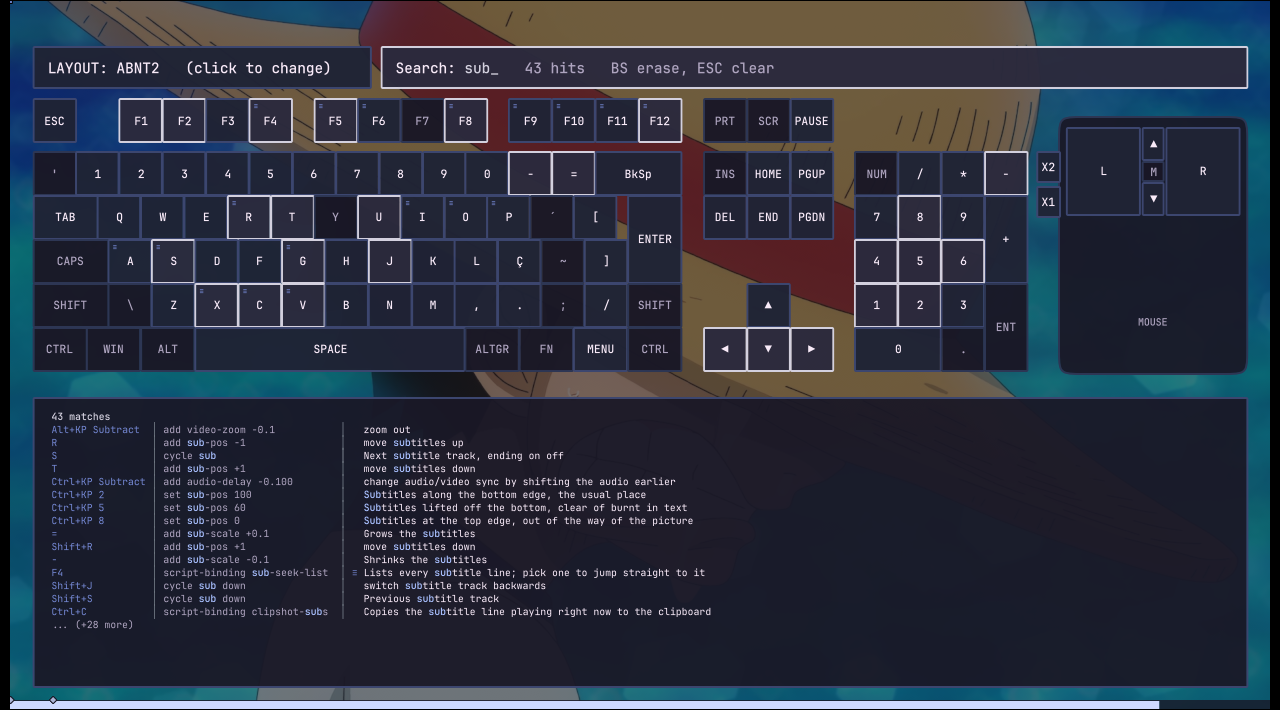
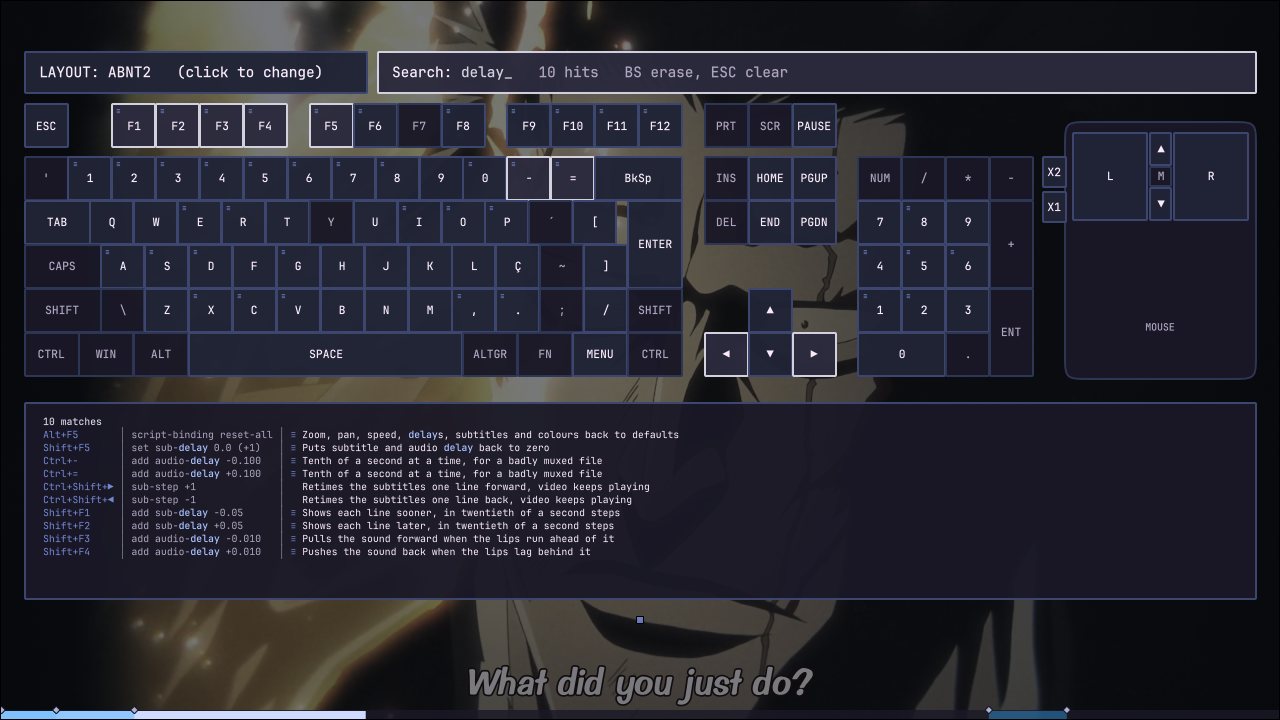
docs: cover today's scripts and retake the screenshots
Nine new images, six replaced. The menu shots are taken at 1920 and scaled
down, since the Anime4K cascade runs six levels deep and clipped at 1280,
and all are recompressed losslessly: most replacements are smaller than
what they replace.

New sections for chapters-menu and sub-select-menu, and one for AniList,
which the vendored table still called stock and pinned far behind upstream.
The table now says what actually changed in sub-export, sub-select,
chapters and skip-to-silence. Install gains 'just setup'.

Corrects two claims: the keyboard map no longer reflects mpv's builtins,
which mpv.conf turns off, and 'sbdly' does not find sub-delay.

diff --git a/README.md b/README.md
@@ -62,25 +62,27 @@ portable_config/
     shaders/ ## add your own
 ```
 
+The AniList scripts import `requests` and `guessit`. `just setup` installs both into `scripts/anilistUpdater/vendor/` with [uv][uv], so they do not depend on whatever `Lib` folder happens to sit next to `mpv.exe`; `just setup-check` reports whether mpv can import them. The folder is gitignored.
+
 ## Scripts I wrote
 
-Ten, the interface ones all on the Moonlight palette.
+Twelve, the interface ones all on the Moonlight palette.
 
 ### [`keybind-visualizer.lua`][keybind_visualizer]
 
 An on-screen keyboard on `F6`. Hover a key to see what it does; `ESC` closes it.
 
-Bindings are read live from `input-bindings`, so it reflects your `input.conf` plus the builtins, with no list to maintain.
+Bindings are read live from `input-bindings`, with no list to maintain. `mpv.conf` sets `input-builtin-bindings=no`, so what the map draws is this config and its scripts and nothing of mpv's own: `input.conf` is the whole keymap.
 
-| Searching every binding for `sub`           | Hovering a single key                     |
-| ------------------------------------------- | ------------------------------------------- |
+| Searching every binding for `delay`         | Hovering a single key                     |
+| ------------------------------------------- | ----------------------------------------- |
 | ![Keyboard map, searching][shot_map_search] | ![Keyboard map, hovering][shot_map_hover] |
 
-Type to search. The query matches key names, combos, descriptions and commands. Each word matches as a substring, as a gapped run inside one word (`sbdly` finds `sub-delay`) or as word initials, so a scatter of letters never lights up half the keyboard. Matches are picked out inside each description. `BS` erases, `ESC` clears the query and then closes.
+Type to search. The query matches key names, combos, descriptions and commands. Each word matches as a substring, as a gapped run inside one word, or as the initials of consecutive words, so a scatter of letters never lights up half the keyboard. A run may not wander past the end of a word: `sub-delay` is two words to the tokenizer, so `sd` reaches it through the initials rule while `sbdly` matches nothing. Matches are picked out inside each description. `BS` erases, `ESC` clears the query and then closes.
 
 Results come as three columns: the combo, what it runs, and what that means. The command column drops the `no-osd` and `expand-properties` prefixes and the `osd_theme` message, and a binding running several commands shows the first with a `(+2)` for the rest.
 
-Descriptions come from the trailing `#` comment on each `input.conf` line, which mpv hands back through `input-bindings`. A uosc menu line describes itself after `?` instead, since its `#!` comment already holds the menu path. Only mpv's builtins, which ship without comments, come through blank.
+Descriptions come from the trailing `#` comment on each `input.conf` line, which mpv hands back through `input-bindings`. A uosc menu line describes itself after `?` instead, since its `#!` comment already holds the menu path; parents in that path carry descriptions of their own, so the one after the last `?` is the entry's.
 
 A `≡` badge marks anything that also lives in the uosc menu: in the corner of the key, and beside the binding's own line in the panel.
 
@@ -99,9 +101,9 @@ Type to filter: every word has to appear in the line, so `long line` keeps only 
 
 mpv exposes no "all subtitle lines" API, so the track is dumped to a temporary `.srt` with ffmpeg and parsed; ASS and embedded subs are flattened on the way.
 
-| Every line of the track, the one playing highlighted | Filtered down to the lines that match |
-| --- | --- |
-| ![Subtitle index][shot_sub_seek] | ![Subtitle index, searching][shot_sub_search] |
+| Every line of the track, the one playing highlighted | Filtered down to the lines that match         |
+| ---------------------------------------------------- | --------------------------------------------- |
+| ![Subtitle index][shot_sub_seek]                     | ![Subtitle index, searching][shot_sub_search] |
 
 ### [`uosc-menu.lua`][uosc_menu]
 
@@ -111,9 +113,17 @@ uosc builds its menu from the `#!` comments in `input.conf`, but those items get
 | --------------------------------- | --------------------------------------------- |
 | ![Menu root][shot_menu_root]      | ![Tools submenu][shot_menu_tools]             |
 
-| Fonts as a radio group               | Shaders ticked three levels in          |
-| ------------------------------------ | --------------------------------------- |
-| ![Font radio group][shot_menu_radio] | ![Shader checkboxes][shot_menu_cascade] |
+| Fonts as a radio group               | The Anime4K presets, six levels deep  |
+| ------------------------------------ | ------------------------------------- |
+| ![Font radio group][shot_menu_radio] | ![Anime4K cascade][shot_menu_cascade] |
+
+| Speeds as a radio group               | Subtitle placement, the live one marked    |
+| ------------------------------------- | ------------------------------------------ |
+| ![Playback speed][shot_menu_playback] | ![Subtitle placement][shot_menu_placement] |
+
+| Every loudness filter as a checkbox   | The colour controls                    |
+| ------------------------------------- | -------------------------------------- |
+| ![Audio loudness][shot_menu_loudness] | ![Picture controls][shot_menu_picture] |
 
 <details>
 
@@ -134,7 +144,31 @@ g cycle interpolation   #! Video @movie > Interpolation @animation ?Resamples fr
 
 Entries carrying a state draw it instead of their icon, re-read on open: `cycle <prop>`, `af toggle` and `change-list glsl-shaders toggle` become checkboxes, while entries setting the same property with `set <prop> <value>` become a radio group. Those keep the menu open when clicked and redraw in place, so a shader chain can be built in one visit.
 
+The state is read from the first command on the line, with the prefix saying how it reports itself stripped first. Almost every binding here opens with `no-osd`, so matching the raw string left the whole tree stateless. Comments are found at the first `#` outside quotes, since a subtitle colour is written `"#80FFFFFF"` and cutting at the first `#` truncates the command.
+
 Bound to `MBTN_RIGHT`, which anchors it at the pointer, and to `MENU` and the uosc menu button, which open it centred.
+
+### [`chapters-menu.lua`][chapters_menu]
+
+A uosc front end for [`chapters.lua`][chapters] on `c`, which ships eleven bindings and no way to see what any of them would do. Every chapter with its timestamp, the one playing marked; activating a row seeks and leaves the menu open, so you can walk the file and then act.
+
+| Every chapter, and what can be done to them | The YouTube rules, checked one by one |
+| ------------------------------------------- | ------------------------------------- |
+| ![Chapter menu][shot_chapters]              | ![YouTube check][shot_chapters_check] |
+
+Adding, renaming and deleting are done here rather than delegated. `chapters.lua` asks for a title through `mp.input`, which drops mpv's console over the video, and it acts on the chapter playing rather than the one you picked. Renaming uses a uosc palette prefilled with the current title instead, on `search_debounce = 'submit'` so nothing fires until Enter.
+
+Exporting, remuxing and the in-place mkv rewrite are `chapters.lua`'s own and are called by name. Its YouTube validation, which used to dump twenty seconds of tab-aligned OSD text, is drawn as pass and fail rows, listing any chapter too short to qualify.
+
+### [`sub-select-menu.lua`][sub_select_menu]
+
+[`sub-select.lua`][sub_select] picks a subtitle track from the rules in `sub-select.json` and says nothing about it: not which rule won, not whether it ran at all. `ALT+SHIFT+s` draws the rules in plain words, marks the one that matched, names the track it chose, and offers a switch to stop it choosing.
+
+| Which rule picked the track showing right now |
+| --------------------------------------------- |
+| ![Automatic subtitle selection][shot_subsel]  |
+
+The rules, the match and the on/off state reach the menu from `sub-select.lua` over `user-data`, which is the only place any of them is known. That is six added lines in a vendored script, and an upstream pull reverts them.
 
 ### [`sub-font.lua`][sub_font]
 
@@ -146,9 +180,11 @@ This mirrors `sub-font` into a `FontName` override, leaving other overrides alon
 
 One shape for every message a keybind puts on screen, so `sub-ass-override force` never reaches the screen as bare `force`. Bindings call `script-message-to osd_theme say "<label>" "<state>" "<detail>"`. The script paints the label, colours the state green or red for a plain on or off, and sets the detail below it in a smaller, quieter line saying what the setting does.
 
-| The message a keybind leaves on screen |
-| -------------------------------------- |
-| ![Themed OSD message][shot_osd_theme]  |
+| The message a keybind leaves on screen | Work that takes a while, with the same spinner uosc uses |
+| -------------------------------------- | -------------------------------------------------------- |
+| ![Themed OSD message][shot_osd_theme]  | ![Busy message][shot_osd_busy]                           |
+
+A second message, `busy`, stays on screen instead of fading, for work slow enough that a message which disappeared would read as nothing happening. It turns the `autorenew` glyph from the icon font uosc already ships, so a wait here spins exactly what a uosc menu spins, and a later `say` both replaces the text and stops the spinner. Repeated calls only swap the words, so progress can climb without the icon stuttering.
 
 Colours are the blues and greys of the [Moonlight palette][moonlight] my shell prompt uses, held at the top of the file, so retinting everything is one edit there. Outline and shadow take the palette's background rather than black. Bindings prefix the mutating command with `no-osd` so mpv's own readout does not double up, and prefix the message with `expand-properties` when the state comes from a property.
 
@@ -164,7 +200,7 @@ This draws the icon from the font uosc already ships, at a size and margin deriv
 
 ### [`skip-chapters.lua`][skip_chapters]
 
-Auto-skips chapters titled as an opening, ending, credits or preview, with `F11` turning it off when a release names its chapters badly. The patterns are lowercase and anchored, so `^op$` does not swallow a chapter called "Opening Ceremony".
+Auto-skips chapters titled as an opening, ending, credits or preview, with `F11` turning it off when a release names its chapters badly. The patterns are lowercase and anchored, so `^op$` does not swallow a chapter called "Opening Ceremony". Both the toggle and the skip itself announce through `osd-theme`, naming the chapter being jumped.
 
 ### [`restart-mpv.lua`][restart_mpv]
 
@@ -172,7 +208,23 @@ Auto-skips chapters titled as an opening, ending, credits or preview, with `F11`
 
 ### [`watched-folder.lua`][watched_folder]
 
-`F10` toggles it; when on, a finished file is moved into a `watched` subfolder. Two known bugs: it fires when you switch files without finishing, and it skips the last file in a playlist.
+`F10` toggles it; when on, a finished file is moved into a `watched` subfolder. The toggle draws through `osd-theme` and names the file queued to move, since the move itself only happens once the next file starts. Two known bugs: it fires when you switch files without finishing, and it skips the last file in a playlist.
+
+## AniList, rewritten around the player
+
+[`anilistUpdater`][anilist] is [AzuredBlue's][anilist_src], and marks the episode watched at 85%. Everything below is local, so an upstream pull reverts it.
+
+| Everything the panel knows about the file playing |
+| ------------------------------------------------- |
+| ![AniList panel][shot_anilist]                    |
+
+`n` opens the panel; `CTRL+n` marks the episode watched without opening anything. The panel names the match, the status and progress saved on your list, and, for a series still airing, when the next episode lands. Progress reads `4/10` once a series has finished, `4/10+` while it is still running, and a bare number when nothing knows the total.
+
+A wrong guess is fixed from the same panel: search AniList by name, or paste a URL or a bare id into the search box. The correction is stored against a key built from what guessit parsed, the episode title and the season, so pinning one entry never drags an unrelated season of the same show along with it.
+
+The token is no longer a text file next to the scripts. `CTRL+n` on the link row reads it from the clipboard and hands it to Python over stdin rather than argv, keeping it out of the process list, and it is stored with `CryptProtectData` under `%LOCALAPPDATA%\mpv-anilist\`. That is outside the config tree, so it cannot be committed or synced, and it is tied to the Windows account, so a copied file is inert on another machine. Moving the config to a new PC means entering the token again. When AniList rejects an expired token the panel says so and points at the row that fixes it.
+
+One fix reached the API layer: the original sent the token only on writes, so every lookup went out unauthenticated and came back `403`. It is sent on every request now.
 
 ## Configuration
 
@@ -219,18 +271,18 @@ flowchart TB
 
 Each carries an added header line naming its upstream, so a file on disk always says where it came from. Beyond that, the three at the top differ; the rest are stock.
 
-| Script                                              | Source                            | What it does                                    | Local change                                                    |
-| --------------------------------------------------- | --------------------------------- | ----------------------------------------------- | ---------------------------------------------------------------- |
-| [`thumbfast.lua`][thumbfast]                        | [po5][thumbfast_src]              | Seekbar hover thumbnails                        | Expands `~~/` in `mpv_path`; a 10s watchdog kills a hung spawn  |
-| [`sub-export.lua`][sub_export]                      | [kelciour][kelciour]              | Extracts the current subtitle next to the video | Writes `.srt` for srt tracks; says why it failed; key from `input.conf` |
-| [`skip-to-silence.lua`][skip_silence]               | [detuur][detuur]                  | Jumps to the next silence, usually the OP's end | `F9` rather than `F3`                                           |
-| [`anilistUpdater`][anilist]                         | [AzuredBlue][anilist_src]         | Marks the episode watched on AniList at 85%     | Stock, but pinned far behind upstream                           |
-| [`autoload.lua`][autoload]                          | [mpv][autoload_src]               | Queues the neighbouring files in the folder     | Stock                                                           |
-| [`chapters.lua`][chapters]                          | [mar04][chapters_src]             | Create, edit and save chapters                  | Stock                                                           |
-| [`clipshot.lua`][clipshot]                          | [ObserverOfTime][clipshot_src]    | Screenshot straight to the clipboard            | Stock                                                           |
-| [`sub-select.lua`][sub_select]                      | [CogentRedTester][sub_select_src] | Picks audio and subtitle tracks by rules        | Stock                                                           |
-| [`reactive_vf_bypass.lua`][vf_bypass]               | [allecsc][allecsc]                | Keeps the SVP filter chain honest               | Stock                                                           |
-| [`reactive_vf_bypass_keyword.lua`][vf_bypass_kw]    | [allecsc][allecsc]                | The same, matched by keyword                    | Stock                                                           |
+| Script                                           | Source                            | What it does                                    | Local change                                                                                                               |
+| ------------------------------------------------ | --------------------------------- | ----------------------------------------------- | -------------------------------------------------------------------------------------------------------------------------- |
+| [`thumbfast.lua`][thumbfast]                     | [po5][thumbfast_src]              | Seekbar hover thumbnails                        | Expands `~~/` in `mpv_path`; a 10s watchdog kills a hung spawn                                                             |
+| [`sub-export.lua`][sub_export]                   | [kelciour][kelciour]              | Extracts the current subtitle next to the video | Runs in the background rather than freezing the player; spinner and percentage from ffmpeg's own progress; themed messages |
+| [`skip-to-silence.lua`][skip_silence]            | [detuur][detuur]                  | Jumps to the next silence, usually the OP's end | `F9` rather than `F3`; themed message                                                                                      |
+| [`anilistUpdater`][anilist]                      | [AzuredBlue][anilist_src]         | Marks the episode watched on AniList at 85%     | [Rewritten around the player](#anilist-rewritten-around-the-player)                                                        |
+| [`autoload.lua`][autoload]                       | [mpv][autoload_src]               | Queues the neighbouring files in the folder     | Stock                                                                                                                      |
+| [`chapters.lua`][chapters]                       | [mar04][chapters_src]             | Create, edit and save chapters                  | Stock; driven by [`chapters-menu.lua`][chapters_menu] rather than its own bindings                                         |
+| [`clipshot.lua`][clipshot]                       | [ObserverOfTime][clipshot_src]    | Screenshot straight to the clipboard            | Stock                                                                                                                      |
+| [`sub-select.lua`][sub_select]                   | [CogentRedTester][sub_select_src] | Picks audio and subtitle tracks by rules        | Publishes its rules and its match over `user-data`, for [`sub-select-menu.lua`][sub_select_menu]                           |
+| [`reactive_vf_bypass.lua`][vf_bypass]            | [allecsc][allecsc]                | Keeps the SVP filter chain honest               | Stock                                                                                                                      |
+| [`reactive_vf_bypass_keyword.lua`][vf_bypass_kw] | [allecsc][allecsc]                | The same, matched by keyword                    | Stock                                                                                                                      |
 
 </details>
 
@@ -260,6 +312,15 @@ Shaders, [Anime4K][Anime4k] among them, are too large to commit; [`shaders_list.
 [shot_menu_tools]: assets/uosc-menu-tools.png
 [shot_menu_radio]: assets/uosc-menu-radio.png
 [shot_menu_cascade]: assets/uosc-menu-cascade.png
+[shot_menu_playback]: assets/uosc-menu-playback.png
+[shot_menu_placement]: assets/uosc-menu-placement.png
+[shot_menu_loudness]: assets/uosc-menu-loudness.png
+[shot_menu_picture]: assets/uosc-menu-picture.png
+[shot_chapters]: assets/chapters-menu.png
+[shot_chapters_check]: assets/chapters-menu-check.png
+[shot_subsel]: assets/sub-select-menu.png
+[shot_anilist]: assets/anilist-menu.png
+[shot_osd_busy]: assets/osd-theme-busy.png
 [shot_minimal]: assets/uosc-minimal.png
 [shot_interface]: assets/uosc-chrome.png
 [shot_conf_keys]: assets/input-conf-keys.png
@@ -293,6 +354,9 @@ Shaders, [Anime4K][Anime4k] among them, are too large to commit; [`shaders_list.
 [reset_all]: ./portable_config/scripts/reset-all.lua
 [sub_font]: ./portable_config/scripts/sub-font.lua
 [uosc_menu]: ./portable_config/scripts/uosc-menu.lua
+[chapters_menu]: ./portable_config/scripts/chapters-menu.lua
+[sub_select_menu]: ./portable_config/scripts/sub-select-menu.lua
+[uv]: https://github.com/astral-sh/uv
 [uosc_patch]: ./patches/uosc-cascade-menu.patch
 [apply_py]: ./patches/apply.py
 [restart_mpv]: ./portable_config/scripts/restart-mpv.lua
